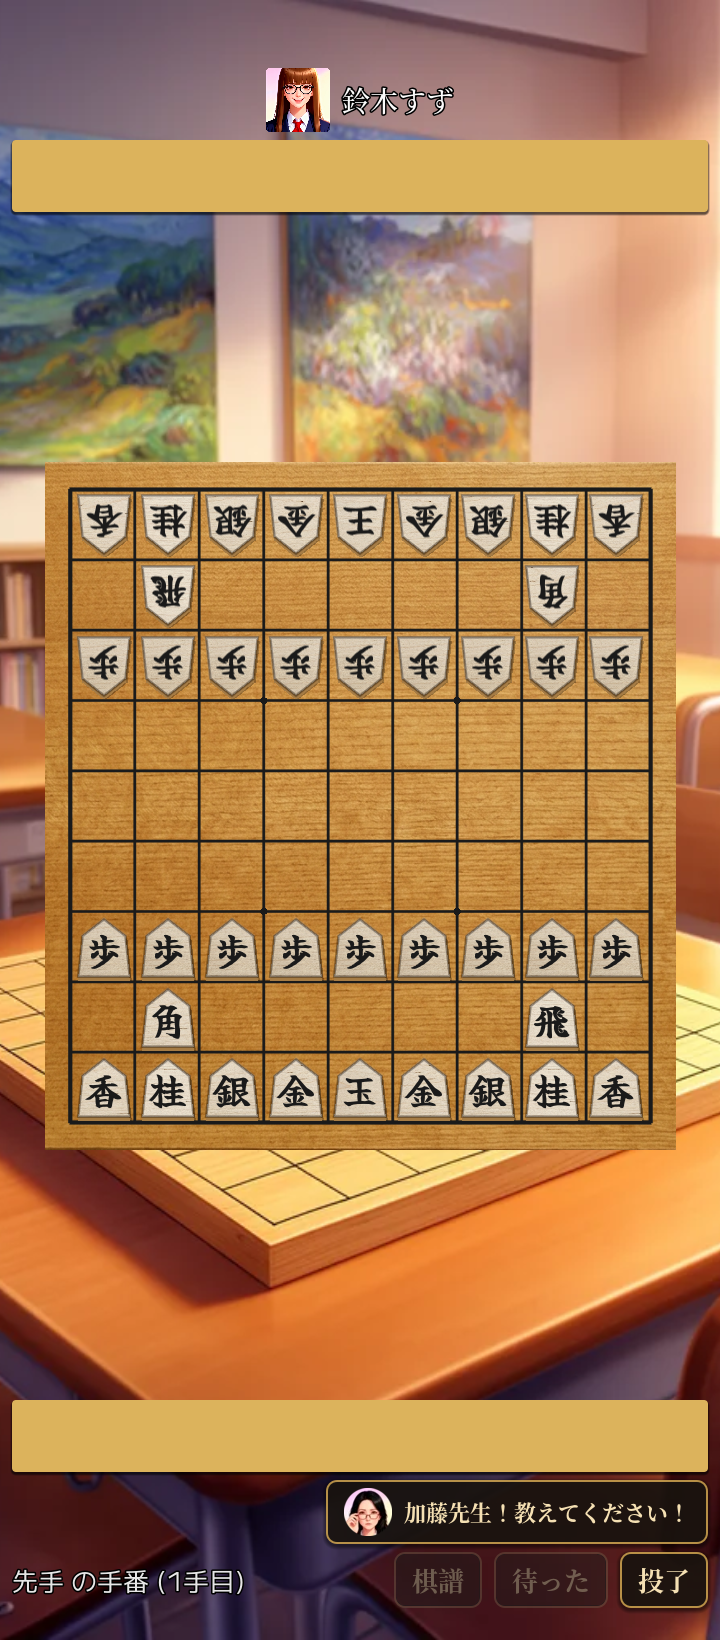
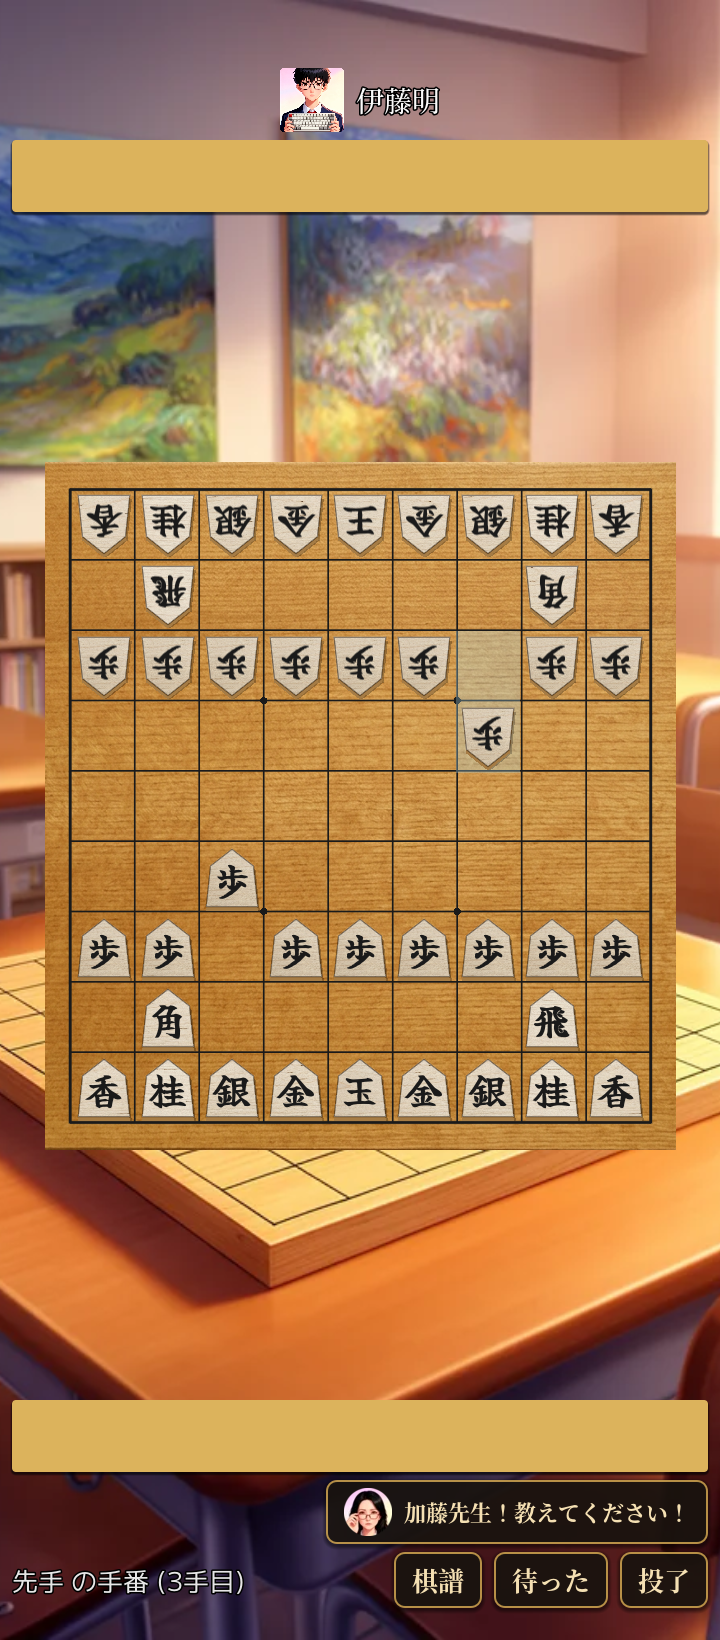
docs: refresh in-game screenshot for 1.0.8

diff --git a/README.md b/README.md
@@ -22,7 +22,7 @@ Android 7.0（API 24）以降 / arm64-v8a。Google Play ストアは方針とし
 
 | タイトル画面 | 対戦相手選択 | 対局画面 |
 |:---:|:---:|:---:|
-| <img src="docs/screenshots/01_main_menu.png" width="220" alt="タイトル画面 — 対局モード・対戦相手を選び、設定 / 続きから / 棋譜検討 / 新規対局へ進む。"> | <img src="docs/screenshots/02_character_picker.png" width="220" alt="対戦相手選択画面 — 8 人の部員・先生から指す相手を選ぶ。上半分に選択中キャラの肖像と紹介、下半分に Lv 1〜8 のグリッド。"> | <img src="docs/screenshots/03_in_game_start.png" width="220" alt="Lv 4（伊藤明）との対局開始時。上部バーに対戦相手の肖像と名前、下部に「加藤先生！教えてください！」ボタンを配置。"> |
+| <img src="docs/screenshots/01_main_menu.png" width="220" alt="タイトル画面 — 対局モード・対戦相手を選び、設定 / 続きから / 棋譜検討 / 新規対局へ進む。"> | <img src="docs/screenshots/02_character_picker.png" width="220" alt="対戦相手選択画面 — 8 人の部員・先生から指す相手を選ぶ。上半分に選択中キャラの肖像と紹介、下半分に Lv 1〜8 のグリッド。"> | <img src="docs/screenshots/03_in_game_start.png" width="220" alt="Lv 4（伊藤明）との対局序盤（7六歩 3四歩）。上部バーに対戦相手の肖像と名前、下部に「加藤先生！教えてください！」ボタンを配置。"> |
 
 | 先生モード | 棋譜検討（一覧） | 棋譜検討（解析） |
 |:---:|:---:|:---:|
